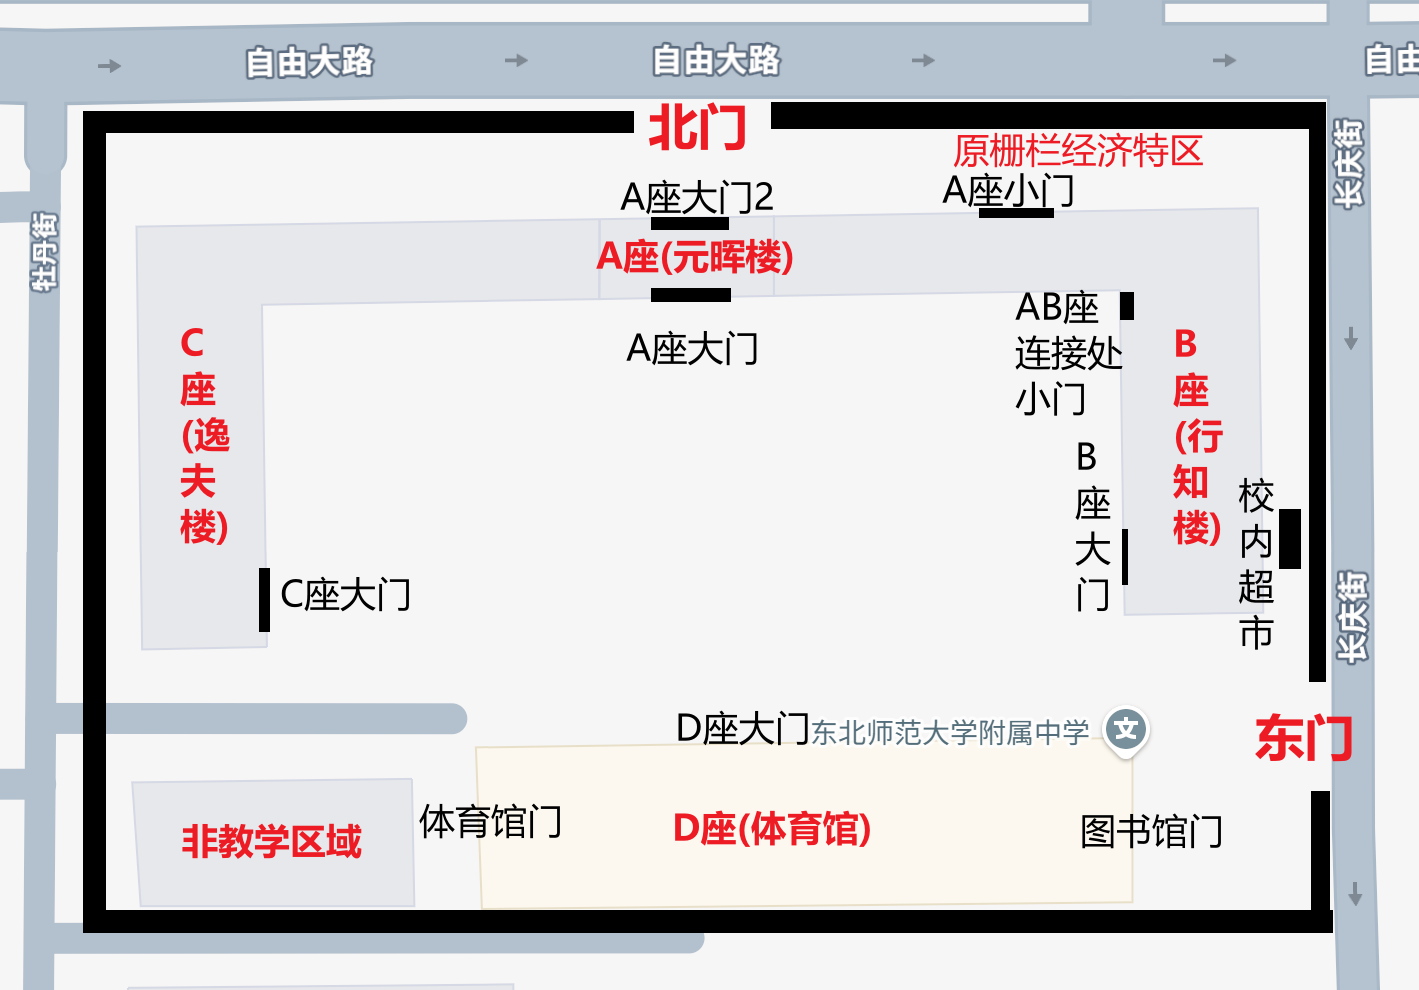
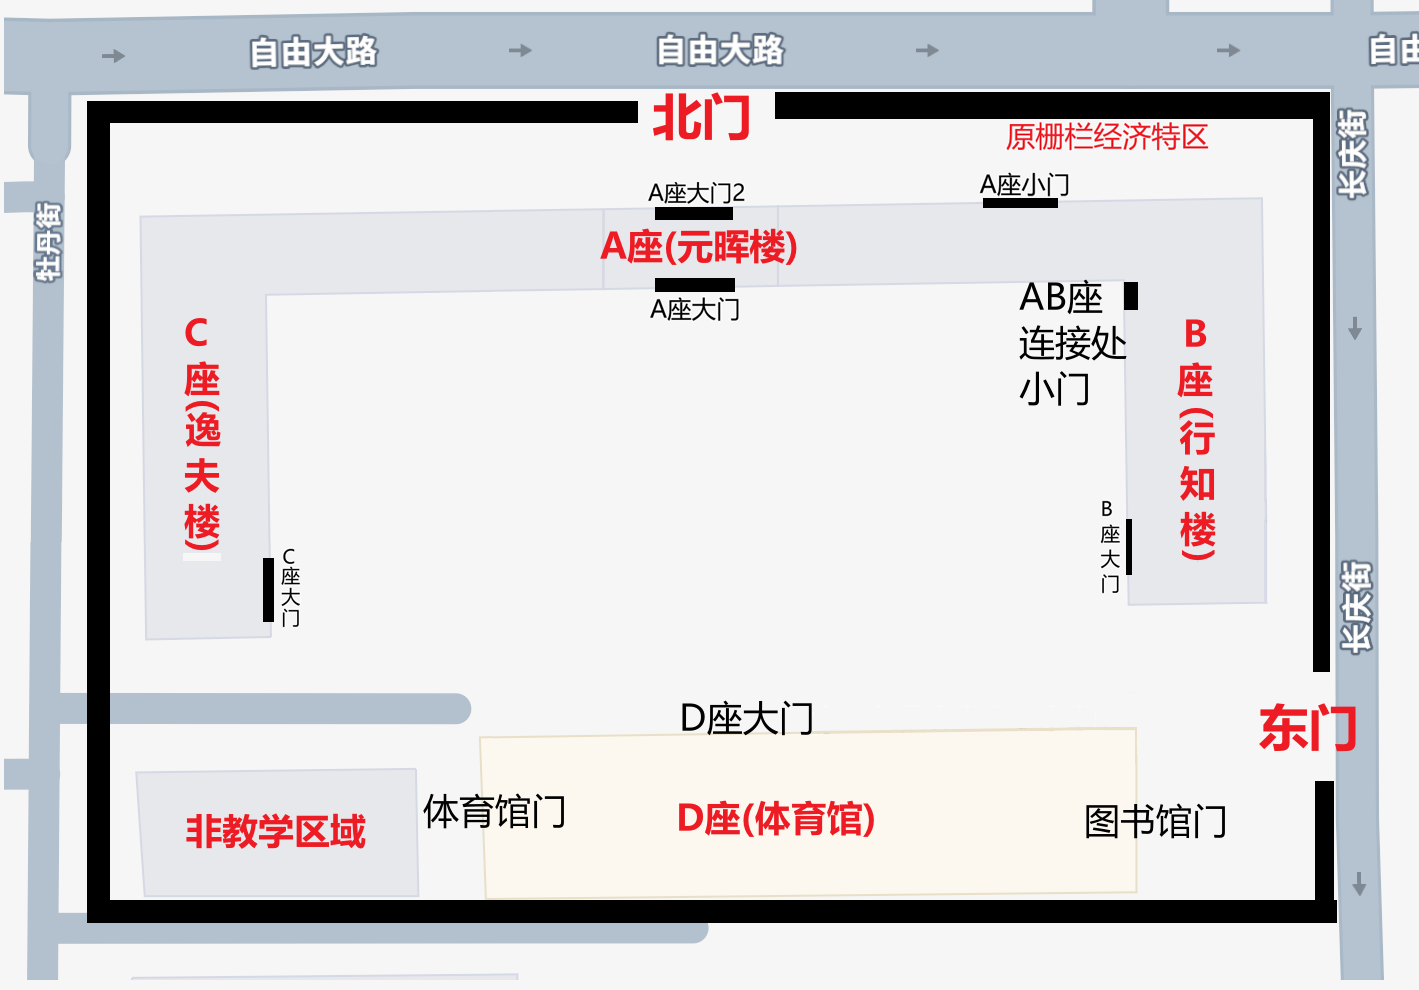
勘误

diff --git a/docs/time/extra-course.md b/docs/time/extra-course.md
@@ -9,8 +9,7 @@ comments: false
 
 ## 有关培优课程
 
-24届的情况是，高一下学期开始开展培优课程，理科上语文，数学，物理三科，（文科不太清楚，不过似乎有英语（？））
-持续到高二下学期，之后被荣誉班课程和面向全年级的课程取代。
+高一下学期开始开展培优课程，理科涵盖语数英物化生六门课。持续到高二下学期，之后被荣誉班课程和面向全年级的课程取代。
 
 ## 上课时间
 周一到周五晚上放学后 19：00到20：30，和高三一起放学，具体在周几似乎不太确定

diff --git a/docs/CONTRIBUTING.md b/docs/CONTRIBUTING.md
@@ -15,7 +15,7 @@ comments: false
 
 ## 发送邮件
 
-请将邮件发送至 `[email redacted]`，为了更高效地处理邮件内容，我们建议（而非强制要求）您采用如下格式：
+请将邮件发送至 `[email redacted]`，为了更高效地处理邮件内容，我们建议（而非强制要求）您采用如下格式：
 
 - 邮件标题：东师附中生存手册投稿+投稿内容简述
 